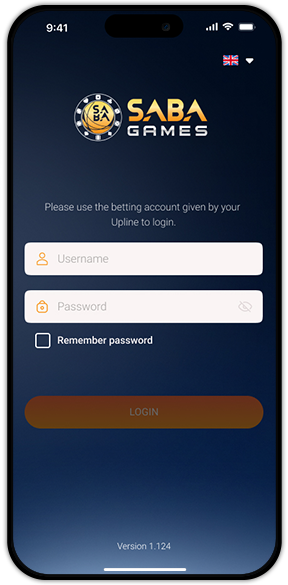
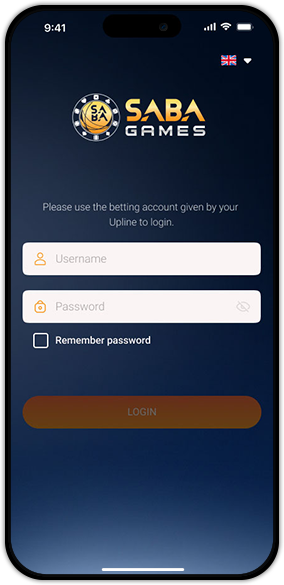
feat: app download page - update step 2 3 5

diff --git a/src/components/app-landing-page/installationguide.tsx b/src/components/app-landing-page/installationguide.tsx
@@ -3,6 +3,7 @@ import { Markup } from "interweave";
 import Styles from "./app-landing-page.module.scss";
 import { StringFormat } from "../../helpers/string-helper";
 import { IAppLandingPageResource } from "./languages/types";
+import { buildVersion } from "../../common/constants";
 
 const InstallationGuide: React.FunctionComponent<{ resources: IAppLandingPageResource, }> = ({ resources }) => {
     return (
@@ -15,7 +16,7 @@ const InstallationGuide: React.FunctionComponent<{ resources: IAppLandingPageRes
                             <div ><span className={Styles["title"]}> {guide.title}</span></div>
                             <div ><span className={Styles["detail"]}>{<Markup content={StringFormat(guide.content, Styles["highlight-text"])} />} </span></div>
                         </div>
-                        <img src={`/static/images/app-download/${guide.image}.png`} className="img-fluid" alt="" />
+                        <img src={`/static/images/app-download/${guide.image}.png?v=${buildVersion}`} className="img-fluid" alt="" />
                     </div>
                 })
             }
